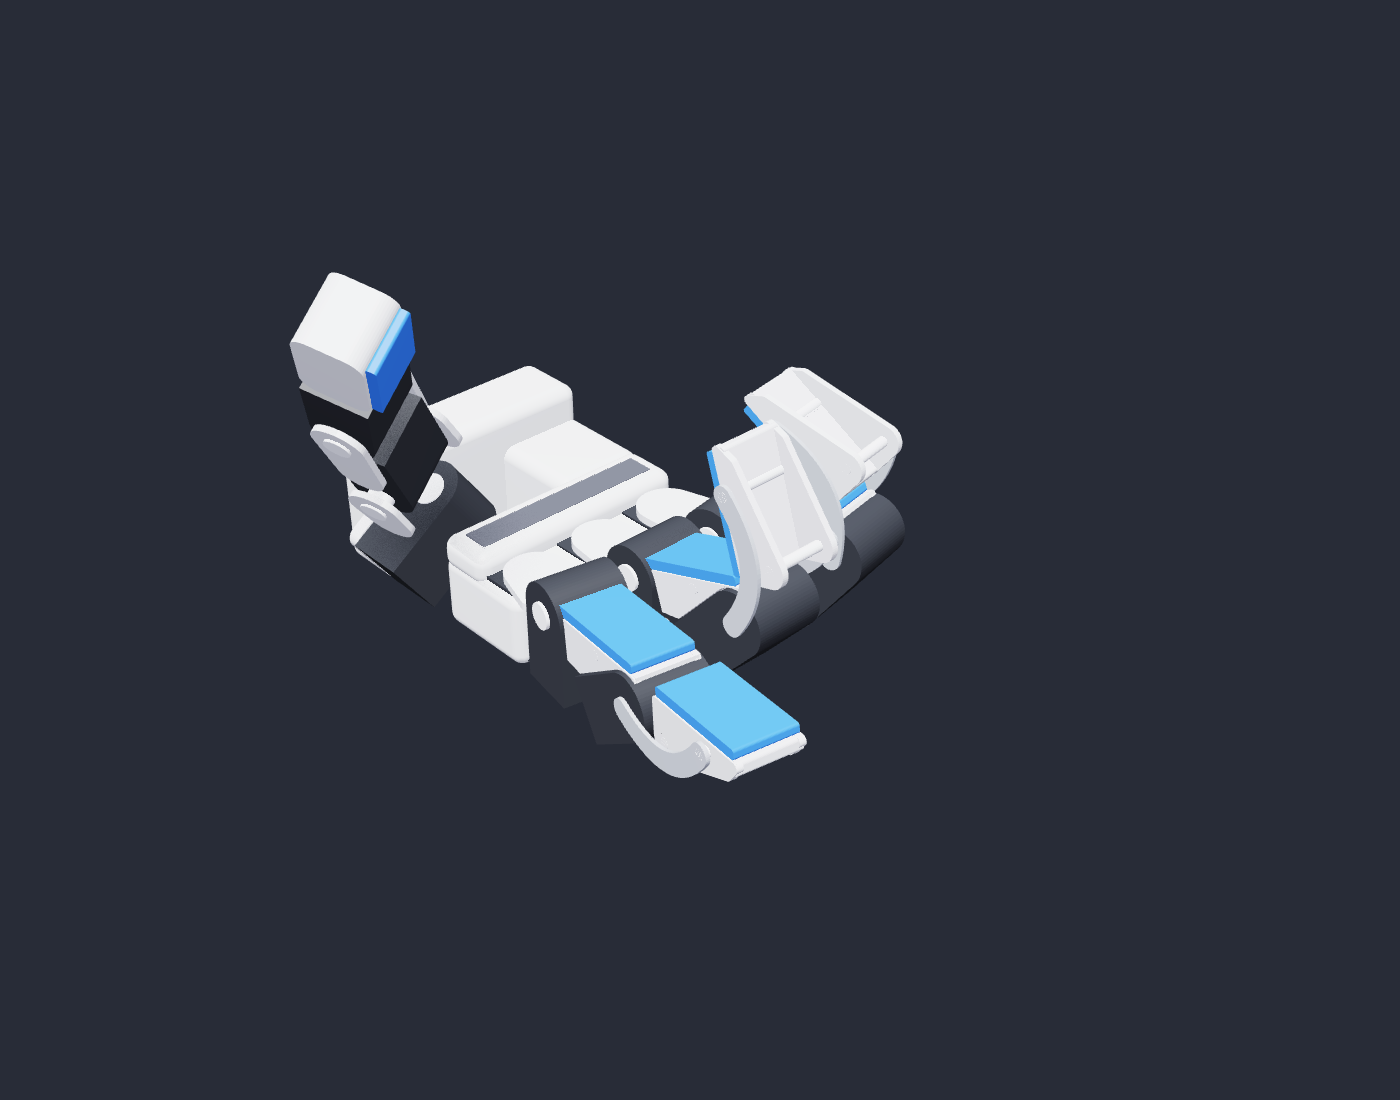
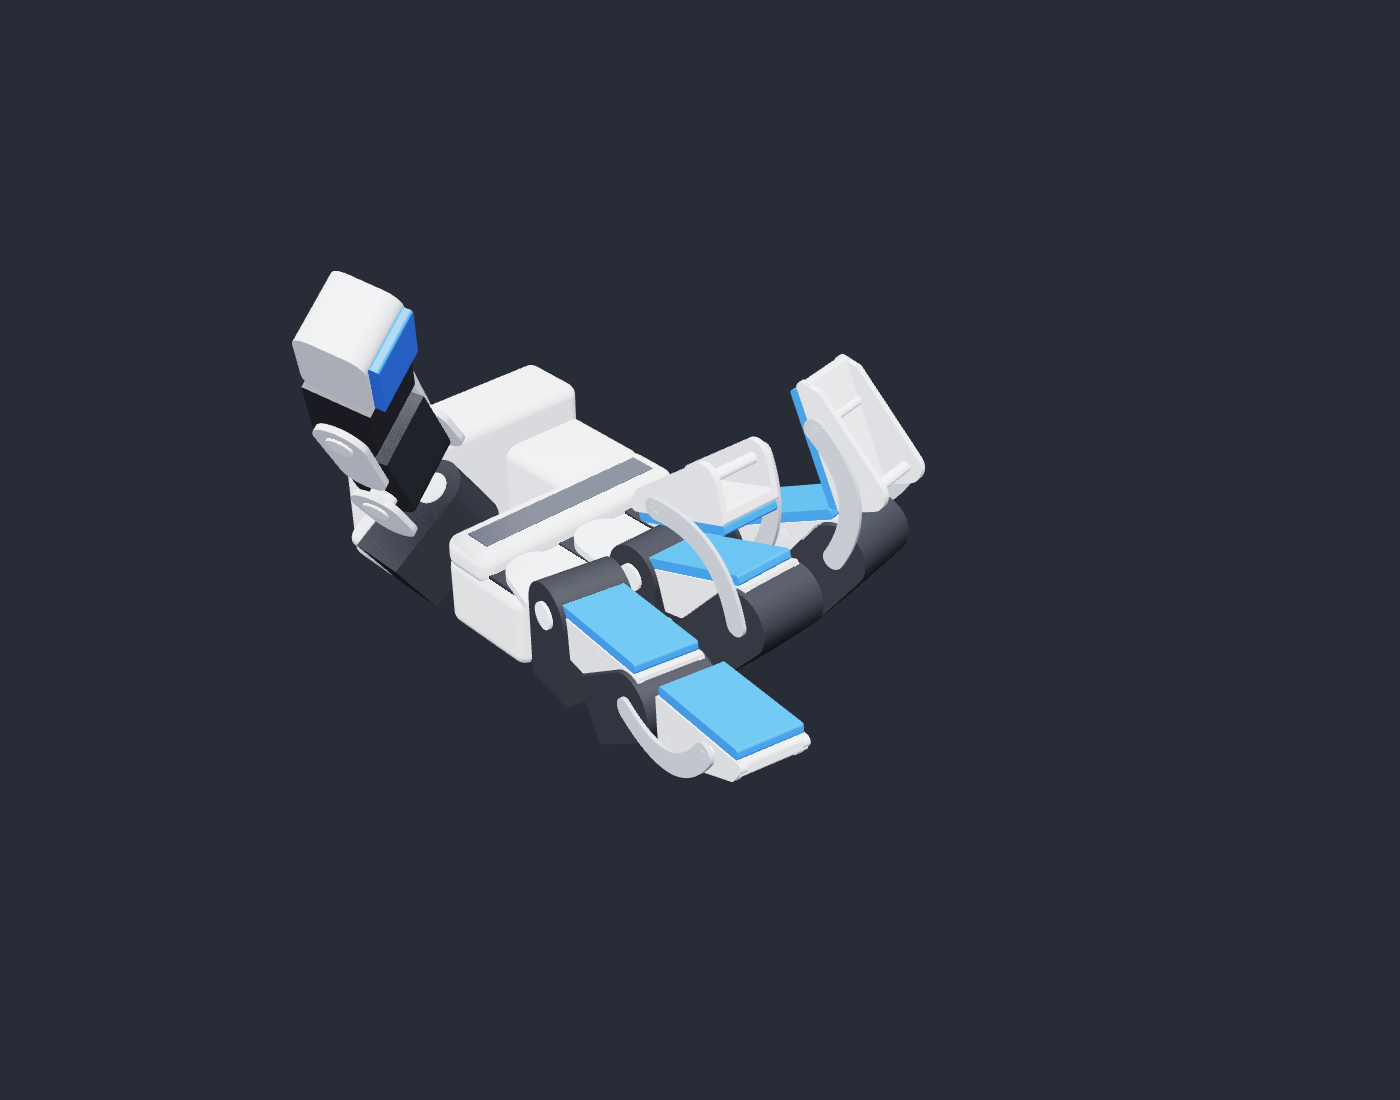
render_grasp: four-bar tables to 180 deg from the exporter; Fig. 1(a) pose 0/180/90

diff --git a/sim/isaaclab/scripts/code_hand/render_grasp.py b/sim/isaaclab/scripts/code_hand/render_grasp.py
@@ -127,6 +127,13 @@ def main(argv=None) -> int:
 
     stem = args.usd.name.split("_thumbpad")[0].split("_ball")[0]
     desc = Description.load(ROOT.parents[1] / "design" / "output" / "sim" / "study3" / "hands" / f"{stem}.json")
+    if max(POSE["pip"].values()) > 120.0:  # the description's tables stop at 120 deg: tables to 180 deg, made with
+        # design/scripts/export/code_hand_sim.four_bar_table (PIP_RANGE_DEG = (-10, 180)) in the design env
+        import json as _j
+        tag = stem.split("_")[-1]
+        tab = _j.loads((ROOT.parents[1] / "design" / "output" / "paper" / f"four_bar_{tag}_180.json").read_text())
+        for dg in desc.four_bar:
+            desc.four_bar[dg] = tab
 
     def build(obj=None):
         b = newton.ModelBuilder()
